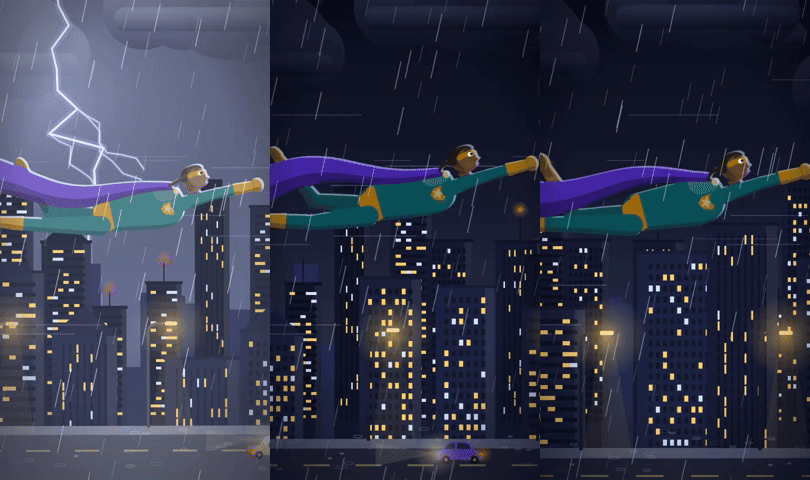
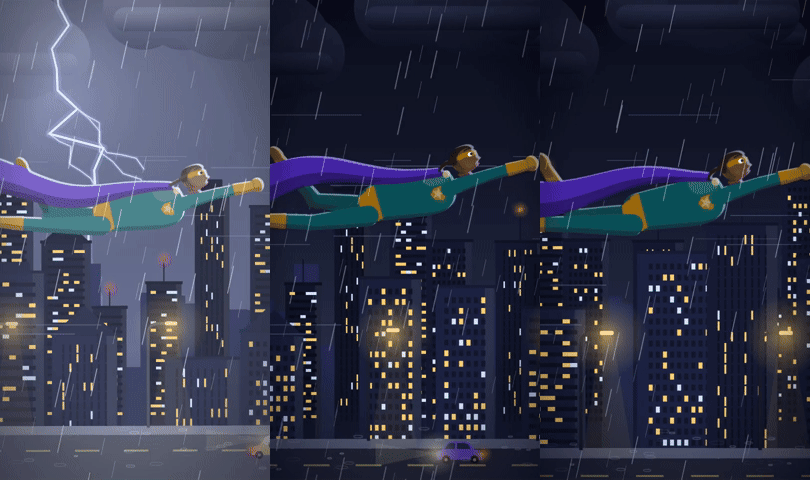
Animated scene engine: prompt-driven illustrated characters, settings, effects and camera (Remotion 'scene' composition + batch CLI)
Offline/no-key fallback for shots: heroes, people and 16 animals with idle + action motion, 14 parallax
settings, weather/energy effects, seeded and deterministic. npm run scene -- --jobs jobs.json

Claude-Session: https://claude.ai/code/session_016kKJU2FbEd5ikmWM3dBL89

diff --git a/render/src/scenes/settings/common.tsx b/render/src/scenes/settings/common.tsx
@@ -1,7 +1,7 @@
 /** Sky, sun/moon, stars, clouds and procedural ridgelines shared by the outdoor settings. */
 import React from "react";
 import type { Ctx } from "../ctx";
-import { mix, rgba } from "../lib/color";
+import { mix } from "../lib/color";
 import { mod, rnd, rr, TAU } from "../lib/math";
 import { Glow, Layer, tiles, useSid, visibleX } from "../lib/svg";
 import { Lightning } from "../effects/atmos";
@@ -139,13 +139,12 @@ export const Clouds: React.FC<{ ctx: Ctx; depth: number; y: number; spread?: num
   return (
     <Layer ctx={ctx} depth={depth}>
       <g transform={`translate(${drift},0)`}>
-        {tiles(ctx, depth, spacing, spacing * 2).map(({ i, x }) => {
+        {tiles(ctx, depth, spacing, spacing * 2).map(({ i }) => {
           const ii = i - Math.floor(drift / spacing);
           if (rnd(seed, k, "has", ii) > density) return null;
           const cx = ii * spacing + rr(seed, -0.3, 0.3, k, "x", ii) * spacing;
           const cy = y + rr(seed, -1, 1, k, "y", ii) * spread;
           const w = size * rr(seed, 0.6, 1.4, k, "w", ii);
-          void x;
           return (
             <g key={ii} transform={`translate(${cx},${cy})`}>
               <CloudShape w={w} seed={seed} k={`${k}${ii}`} fill={fc} shade={sc} opacity={opacity} />
@@ -204,7 +203,6 @@ export const Pine: React.FC<{ h: number; fill: string; light?: string; snow?: bo
 /** Ground band with a gradient from `top` to `bottom`. */
 export const Ground: React.FC<{ ctx: Ctx; y: number; top: string; bottom: string; depth?: number; curve?: number }> = ({ ctx, y, top, bottom, depth = 1, curve = 0 }) => {
   const id = useSid();
-  const [a, b] = visibleX(ctx, depth, 400);
   const { VH } = ctx;
   return (
     <Layer ctx={ctx} depth={depth}>
@@ -215,12 +213,9 @@ export const Ground: React.FC<{ ctx: Ctx; y: number; top: string; bottom: string
         </linearGradient>
       </defs>
       <path d={ridgePath(ctx, depth, (x) => y + hillNoise(x, ctx.seed, "g" + depth) * curve, VH + 600, 40)} fill={`url(#${id})`} />
-      {void a}
-      {void b}
     </Layer>
   );
 };
 
 /** Fraction t over a repeating period (for looping ambient motion). */
 export const cyc = (t: number, period: number, phase = 0): number => mod(t / period + phase, 1);
-export { rgba };

diff --git a/render/src/scenes/settings/nature.tsx b/render/src/scenes/settings/nature.tsx
@@ -3,7 +3,7 @@ import React from "react";
 import type { Ctx } from "../ctx";
 import { darken, lighten, mix } from "../lib/color";
 import { mod, rnd, rr, smoothPath, TAU, wobble, type Pt } from "../lib/math";
-import { Glow, Layer, tiles, useSid, visibleX } from "../lib/svg";
+import { Layer, tiles, useSid, visibleX } from "../lib/svg";
 import { Clouds, Ground, HorizonHaze, hillNoise, Orb, Pine, ridgeNoise, ridgePath, Sky, SkyFx, Stars } from "./common";
 
 const snowy = (ctx: Ctx) => ctx.spec.weather === "snow" || ctx.spec.setting === "ice";
@@ -390,7 +390,7 @@ export const IceFront: React.FC<{ ctx: Ctx }> = ({ ctx }) => (
 // ---------------------------------------------------------------------------
 
 export const SkyBack: React.FC<{ ctx: Ctx }> = ({ ctx }) => {
-  const { VH, pal } = ctx;
+  const { VH } = ctx;
   return (
     <>
       <Sky ctx={ctx} horizon={0.8} />
@@ -401,11 +401,9 @@ export const SkyBack: React.FC<{ ctx: Ctx }> = ({ ctx }) => {
       <FarBirds ctx={ctx} y={VH * 0.4} n={5} />
       <Clouds ctx={ctx} depth={0.18} y={VH * 0.62} size={650} density={0.8} k="b" spread={80} />
       <Clouds ctx={ctx} depth={0.4} y={VH * 0.9} size={900} density={0.95} k="c" spread={60} />
-      {void pal}
     </>
   );
 };
 export const SkyFront: React.FC<{ ctx: Ctx }> = ({ ctx }) => (
   <Clouds ctx={ctx} depth={1.5} y={ctx.VH * 1.06} size={1100} density={0.85} k="d" spread={60} speed={40} />
 );
-export { Glow };

diff --git a/render/src/scenes/settings/interior.tsx b/render/src/scenes/settings/interior.tsx
@@ -1,7 +1,7 @@
 /** Interiors: hospital corridor, science lab, power station with a sparking generator. */
 import React from "react";
 import type { Ctx } from "../ctx";
-import { darken, lighten, mix } from "../lib/color";
+import { darken, lighten } from "../lib/color";
 import { mod, pts, rnd, rr, TAU, type Pt } from "../lib/math";
 import { Glow, Layer, useSid } from "../lib/svg";
 import { Arc, Sparks } from "../effects/energy";
@@ -94,7 +94,6 @@ export const HospitalBack: React.FC<{ ctx: Ctx }> = ({ ctx }) => {
   const stripe = ctx.lit("#3fa7a0");
   const door = ctx.lit("#5aa6c9");
   const out: React.ReactNode[] = [];
-  const Z = [0, 1];
   // surfaces
   out.push(poly([P(-1, 1, 0), P(1, 1, 0), P(1, 1, 1), P(-1, 1, 1)], floor, 1, "floor"));
   out.push(poly([P(-1, -1, 0), P(1, -1, 0), P(1, -1, 1), P(-1, -1, 1)], ceil, 1, "ceil"));
@@ -145,7 +144,6 @@ export const HospitalBack: React.FC<{ ctx: Ctx }> = ({ ctx }) => {
   }
   // vp glow
   out.push(<Glow key="vpg" cx={VW / 2} cy={VH * 0.44} r={VW * 0.5} color="#ffffff" opacity={0.35} />);
-  void Z;
   return <Layer ctx={ctx} depth={0.7} scrollFactor={0}>{out}</Layer>;
 };
 
@@ -334,4 +332,3 @@ export const PowerFront: React.FC<{ ctx: Ctx }> = ({ ctx }) => {
     </Layer>
   );
 };
-export { TAU, mix };

diff --git a/render/src/scenes/characters/aquatic.tsx b/render/src/scenes/characters/aquatic.tsx
@@ -26,8 +26,12 @@ export const Whale: React.FC<CharProps> = (p) => {
   const top = L(orca ? "#16181f" : "#36557a"), belly = L(orca ? "#f4f6f8" : "#c9d8e4"), fin = L(orca ? "#16181f" : "#9fb4c8"), dark = darken(top, 0.3);
   const surface = ctx.spec.setting === "ocean";
   const f = 2.2;
-  const line = spine(820, 16, t, f, (u) => 6 + u * u * 46);
-  const w = (u: number) => (u < 0.14 ? 70 + Math.sqrt(u / 0.14) * 150 : u < 0.5 ? 220 - (u - 0.14) * 140 : Math.max(26, 170 - (u - 0.5) * 300));
+  // head drops slightly so the top line slopes down to a rounded snout
+  const line = spine(820, 16, t, f, (u) => 6 + u * u * 46).map(([x, y], i): Pt => {
+    const u = i / 16;
+    return [x, y + (u < 0.3 ? Math.pow(1 - u / 0.3, 2) * 46 : 0)];
+  });
+  const w = (u: number) => (u < 0.16 ? 60 + Math.sqrt(u / 0.16) * 160 : u < 0.5 ? 220 - (u - 0.16) * 140 : Math.max(26, 172 - (u - 0.5) * 300));
   const outline = ribbon(line, w);
   const tail = line[line.length - 1]!, pre = line[line.length - 2]!;
   const tailAng = Math.atan2(tail[1] - pre[1], tail[0] - pre[0]) * (180 / Math.PI) + 180;

diff --git a/render/src/scenes/characters/index.tsx b/render/src/scenes/characters/index.tsx
@@ -26,10 +26,12 @@ export type CharDef = {
 
 /** Standard ground placement: centred, extra copies further back, smaller and to the sides. */
 export const groundPlace = (s: number, spread = 0.3, xBias = 0.5) => (ctx: Ctx, idx: number, n: number): Placement => {
-  const k = Math.pow(0.74, idx);
+  // groups: everyone a bit smaller, copies further back; offsets limited so they stay in frame
+  const k = Math.pow(0.74, idx) * (n > 1 ? 0.84 : 1);
   const side = idx === 0 ? 0 : idx % 2 === 1 ? -1 : 1;
+  const off = Math.min(ctx.VW * spread, 330 * s);
   return {
-    x: ctx.VW * xBias + side * ctx.VW * spread + (idx === 0 && n > 1 ? ctx.VW * 0.06 : 0),
+    x: ctx.VW * xBias + side * off + (n > 1 ? Math.min(ctx.VW * 0.1, 120 * s) : 0),
     y: ctx.groundY - idx * 60,
     s: s * k,
     z: -idx,

diff --git a/render/src/scenes/settings/water.tsx b/render/src/scenes/settings/water.tsx
@@ -266,4 +266,3 @@ export const SpaceBack: React.FC<{ ctx: Ctx }> = ({ ctx }) => {
   );
 };
 
-export { HorizonHaze };

diff --git a/render/src/scenes/README.md b/render/src/scenes/README.md
@@ -1,0 +1,199 @@
+# Procedural scene engine (`scene` composition)
+
+When no AI video provider (Kling / Veo) is available, every shot is rendered as
+real 2-D animation: articulated SVG characters with idle + action motion,
+parallax settings with ambient motion, particle/light effects and a moving
+camera. Everything is deterministic from `(prompt, seed)` (Remotion
+`random()` + an FNV hash in the parser, never `Math.random`).
+
+```bash
+npm run scene:check                              # parse ~20 sample prompts, assert the expected picks
+npm run scene -- --jobs jobs.json                # render a batch (one bundle, one browser)
+npm run scene -- --jobs jobs.json --concurrency 4 --crf 20
+npm run studio                                   # preview the `scene` composition interactively
+```
+
+`jobs.json`:
+
+```json
+[{ "prompt": "A lion roars on the savanna at sunset", "seed": 4,
+   "durationInSeconds": 5, "width": 540, "height": 960, "out": "out/lion.mp4" }]
+```
+
+`out` is resolved relative to the jobs file. One JSON line per finished job is
+printed to stdout (`{"out":"/abs/lion.mp4","ok":true,"ms":9400,"frames":150}`,
+or `"ok":false,"error":…`); logs go to stderr; exit code 1 if any job failed.
+The CLI uses `build/bundle` when it exists **and** contains `scene`, otherwise a
+content-hashed bundle in `node_modules/.cache/clipforge-scene-bundle/<hash>`
+(re-bundled only when `src/` changes). `--bundle <dir>` / `REMOTION_BUNDLE`
+override it. `REMOTION_BROWSER_EXECUTABLE`, `REMOTION_GL`,
+`REMOTION_CONCURRENCY` and `RENDER_CRF` are honoured like the worker. Output is
+h264, yuv420p, no audio track.
+
+Composition props (zod-validated, `src/scenes/schema.ts`):
+`{ prompt: string; seed: number; durationInSeconds: number; width: number; height: number }`,
+30 fps; `calculateMetadata` sets duration and (even-rounded) size from the props.
+
+## Pipeline
+
+```
+prompt ──parse.ts──▶ SceneSpec {character, role, gender, count, setting, time, weather, action, effects[], camera, color}
+                          │
+Scene.tsx: palette (time × weather × setting) → camera (move + impact shakes)
+           setting.Back (sky → far → mid → near parallax layers)
+           back effects (rain/snow/fireflies/speed lines)
+           characters (placed per registry, rim-light filter, contact shadow, aura)
+           setting.Front (foreground grass / waves / kelp / generator)
+           front effects (rain, snow, dust, bubbles, god rays, lens flare) → vignette + lightning flash
+```
+
+The virtual canvas is always 1600 units tall; width follows the aspect ratio, so
+the same scene works for 9:16, 1:1 and 16:9 (wider frames simply show more
+scenery). Moving subjects stay in frame while the world scrolls past them at the
+matching speed (legs use 2-bone IK with planted feet, so they don't skate); in
+fixed rooms (hospital, lab, power station) the subject walks across instead.
+
+## Prompt keywords
+
+Matching is case-insensitive on word boundaries with synonyms. The **earliest**
+subject word wins; specific verbs outrank generic movement words. Anything not
+pinned down falls back to per-character defaults, then to the seed.
+
+| Kind | Id | Words (not exhaustive) |
+| --- | --- | --- |
+| character | `hero` | superhero, hero, caped, cape, vigilante, champion |
+| | `heroine` | heroine, superheroine, supergirl, super woman — or `hero` + she/her/woman |
+| | `person` | nurse · doctor/physician/surgeon · scientist/researcher/engineer · kid/child/boy/girl · worker/technician/electrician · person/man/woman/teacher/… (role picks the outfit) |
+| | animals | lion/lioness · fox · owl · eagle/hawk/falcon/bird/crow · wolf/wolves/husky · cat/kitten · dog/puppy · rabbit/bunny/hare · bear/grizzly · elephant · whale/humpback/orca · fish/school of/shoal · dolphin · penguin · butterfly/moth · deer/stag/fawn/elk/gazelle |
+| setting | `city` | city, street, downtown, skyline, town, buildings, traffic |
+| | `rooftops` | roof, rooftop(s) (wins over `city`) |
+| | `forest` | forest, woods, trees, jungle, branch, pines |
+| | `savanna` | savanna(h), grassland, plains, prairie, africa, desert, safari |
+| | `meadow` | meadow, field, park, garden, hills, flowers, farm |
+| | `mountains` | mountain, peak, cliff, alps, summit, valley |
+| | `ice` | ice, icy, arctic, antarctic, glacier, tundra, polar |
+| | `ocean` | ocean, sea, waves, beach, surf, coast, water |
+| | `underwater` | underwater, under the sea, reef, coral, deep sea, deep blue, seabed |
+| | `sky` | sky, clouds, air |
+| | `space` | space, galaxy, nebula, planet, orbit, cosmos, asteroid |
+| | `hospital` | hospital, ward, clinic, emergency room, ICU, patients |
+| | `lab` | lab, laboratory, experiment, research |
+| | `power` | generator, power station/plant/grid, substation, turbine, reactor, factory |
+| time | `sunrise` / `sunset` / `night` / `day` | dawn, morning · dusk, evening, twilight, golden hour · night, moon, dark, stars · day, noon, sunny |
+| weather | `storm` / `snow` / `rain` / `fog` | thunderstorm, lightning, thunder · snow(y), blizzard, winter · rain, downpour · fog, mist, haze |
+| action | `fly` `hover` `land` `zap` `walk` `run` `jump` `swim` `roar` `howl` `graze` `gesture` `flap` `spout` `idle` | flies/soars/glides · hovers/floats · lands/descends · sparks/electric/presses/touches · walks/waddles/strolls · runs/trots/gallops · jumps/leaps/hops/breaches · swims/dives · roars/growls · howls · grazes/eats · waves/explains/talks · flaps · spouts/surfaces · sits/perches/blinks/watches |
+| count | 1–3 | two/pair · three/several/herd/pack/flock/pod · plural subject ("dolphins") → 3 (capped at 2 for heroes, people, elephants, whales, bears) |
+| colour | hint | red, orange, gold, green, blue, purple, white, black, gray, brown, arctic/snowy (suit or fur colour where it makes sense) |
+
+Consistency rules: aquatic animals always get water (whale/fish default to
+underwater unless "surface/spout/waves"; dolphins that jump get the ocean
+surface), land animals are never put underwater, storms default to night,
+underwater / indoor / space scenes ignore weather. With no recognised subject
+the seed picks a curated combo (or a character that fits the named setting), so
+"Why sleep matters for your brain" still yields a proper animated scene.
+
+## Characters
+
+Every character breathes/blinks (or has an equivalent idle) and gets a rim-light
++ core-shadow filter tuned to the scene light. Colours vary with the seed (and
+colour words).
+
+| Character | Motion |
+| --- | --- |
+| hero / heroine (original design: shield + star emblem, optional domino mask) | **hover** (bob, slow ascent, flowing cape, glowing fists), **fly** (profile, fist forward, travelling-wave cape, kicking legs, speed lines, scrolling world), **land** (descends, knee-bend impact with camera shake, recovers), **zap** (arms rise, arcs between/under the hands, spark showers); 7 suit palettes × 6 skin tones × 6 hair colours |
+| person (nurse / doctor / scientist / kid / worker / civilian, gender from pronouns) | **walk** (IK gait, arm swing), **gesture** (talking hand, nodding, mouth), **zap** (arms pressed forward, arcs crawl from hands up to the shoulders, hair stands on end, body shake), idle |
+| lion | mane lobes ripple; **roar** (anticipation dip, head up, jaw open with fangs, mane flare, sound rings, camera shake), walk, tail with tuft |
+| fox | **trot** (diagonal gait, bushy tail with white tip, dark socks), walk, idle |
+| wolf | **howl** (body tilts, head to the sky, sound rings), trot, idle |
+| dog | **run** (trot, floppy ears, tongue out, wagging tail, collar), idle wag |
+| cat | idle (tail swish, slit-pupil blink, ear twitch, head tilt), walk; tabby stripes |
+| owl | perched on a branch: slow blink with eyelids, **head turns** left/right, ear tufts, periodic **wing flap** bursts |
+| eagle | flapping bursts blended into swept-back glides, bob, head look |
+| penguin | **waddle** (side-to-side rock, stepping feet, flippers), hop, idle |
+| rabbit | **hop** cycle (crouch → stretch → land), ear swing, nose twitch |
+| bear | slow heavy **walk**, optional roar |
+| elephant | ear flap, trunk sway, tail, slow **walk** |
+| deer (stag or spotted fawn) | **graze** (neck down, chewing, looks up), **leap** (airborne arcs with extended legs), walk, ear/tail flicks |
+| whale (humpback, orca variant) | **swim** (body wave, fluke beat, pectoral fins), **spout** at the surface |
+| fish | a school of 26 fish at several depths, wagging tails |
+| dolphin | **jump** arcs out of the waves with exit/entry splashes, or swim underwater |
+| butterfly | wing flutter, wandering path (monarch / morpho / swallowtail / pink palettes) |
+
+## Settings (parallax layers + ambient motion)
+
+| Setting | Layers & ambient motion |
+| --- | --- |
+| city | gradient sky, stars/moon or sun, far skyline, mid + near buildings with twinkling windows and blinking antenna lights, street with lamps, cycling traffic lights, passing cars with headlights |
+| rooftops | city behind + foreground roofs with water towers, spinning AC fans, blinking antennas |
+| forest | hills, three depths of swaying pines / leafy trees, grass, foreground bushes; snow caps in snow; fireflies at night |
+| savanna | mesas, acacias, heat shimmer lines, swaying golden grass, distant bird flock |
+| meadow | rolling hills, trees, grass with swaying flowers |
+| mountains | four snow-capped ranges with shaded faces, drifting mist, pine ridge |
+| ice | ice cliffs, dark sea with bobbing icebergs and glints, cracked ice floor with sparkles, snow drifts |
+| ocean | horizon haze, sun glitter path, five wave bands with foam at different depths/speeds |
+| underwater | surface ripples, god rays, far rock + kelp silhouettes, coral, anemones, swaying kelp, caustics, bubbles |
+| sky | cloud layers at several depths, flock of birds |
+| space | nebulae, twinkling stars, ringed planet with drifting bands, moon, tumbling asteroids, shooting stars, lunar ground |
+| hospital | one-point-perspective corridor, flickering ceiling panel, doors, exit sign, ECG monitor, swaying IV bag with drips |
+| lab | monitors (ECG / bars / rotating DNA), shelves, bubbling glowing flasks, hanging lamps |
+| power | pipes, jittering gauges, rotating amber beacons, hazard stripes, big generator with glowing coil, blinking panel, arcing terminals + sparks |
+
+## Effects
+
+`effects/atmos.tsx`: rain (two depths + splashes), snow (two depths), fireflies,
+dust motes, god rays, bubbles, lens flare, lightning (branching bolts + scene
+flash that also brightens sky, clouds and characters' rim light), speed lines,
+energy aura. `effects/energy.tsx`: crackling arcs (re-rolled every 2 frames,
+with branches), spark showers with gravity, pulsing energy balls.
+
+Camera (`camera.ts`): `push`, `pull`, `pan` or `drift` chosen per scene from the
+seed (movement actions prefer drift/pan), plus a handheld float and decaying
+shakes on lightning strikes, landings and roars.
+
+## Contact sheets
+
+Rendered at 540×960, frames at 12 % / 50 % / 88 % of each 5 s clip.
+
+| Prompt | Sheet |
+| --- | --- |
+| A caped superhero flies over a city at night during a thunderstorm, lightning flashing | ![](../../docs/scenes/01_hero_storm.png) |
+| A nurse presses her hands on a generator and electric sparks crawl up her arms | ![](../../docs/scenes/02_nurse_generator.png) |
+| A glowing hero hovers above rooftops at sunrise | ![](../../docs/scenes/03_hero_rooftops.png) |
+| A lion roars on the savanna at sunset | ![](../../docs/scenes/04_lion.png) |
+| A red fox trots through a snowy forest | ![](../../docs/scenes/05_fox.png) |
+| An owl blinks on a branch under the moon with fireflies | ![](../../docs/scenes/06_owl.png) |
+| A whale swims through deep blue ocean with light rays | ![](../../docs/scenes/07_whale.png) |
+| An eagle soars over mountains | ![](../../docs/scenes/08_eagle.png) |
+| A penguin waddles on the ice | ![](../../docs/scenes/09_penguin.png) |
+| Three dolphins jump out of the waves | ![](../../docs/scenes/10_dolphins.png) |
+
+## Performance
+
+In the 4-core sandbox (headless shell, software GL) a 5 s 540×960 clip renders
+in ~9–15 s (storm/rooftop/underwater scenes are the heaviest), a 5 s
+1080×1920 clip in ~30 s. Bundling adds ~7 s once per source change.
+
+## Known limitations
+
+- Characters are drawn from one side (profile, or front for hover/land/zap and
+  the owl); there is no turning around, and all walkers face right.
+- One subject species per shot (plus copies); there are no interactions between
+  different characters, and no props beyond the generator and the owl's branch.
+- Proportions are stylised; the whale and dolphin bodies are fairly simple, and
+  the flying hero's face is small at 540 px wide.
+- Re-rendering the same job gives visually identical frames (PSNR ≈ 66 dB);
+  JPEG/x264 threading makes the bytes differ slightly.
+
+## Files
+
+| Path | What |
+| --- | --- |
+| `index.tsx` | Registers the `scene` composition (`calculateMetadata`) |
+| `schema.ts` | zod props schema, fps |
+| `parse.ts`, `check.ts` | prompt → `SceneSpec`; `npm run scene:check` |
+| `Scene.tsx` | composition: context, placement, layer order, grade |
+| `palette.ts`, `camera.ts`, `ctx.ts` | lighting palettes, camera + timed events, per-frame context |
+| `lib/` | seeded maths/noise/easing, colour maths, SVG helpers (parallax `Layer`, `tiles`, rim-light filter, glows), IK/gait rig |
+| `settings/` | `city.tsx`, `nature.tsx` (forest, savanna, meadow, mountains, ice, sky), `water.tsx` (ocean, underwater, space), `interior.tsx` (hospital, lab, power) |
+| `characters/` | `hero.tsx`, `person.tsx`, `felines.tsx`, `canines.tsx`, `big.tsx`, `birds.tsx`, `small.tsx`, `aquatic.tsx`, shared `quad.tsx`, registry `index.tsx` |
+| `effects/` | `atmos.tsx`, `energy.tsx` |

diff --git a/render/README.md b/render/README.md
@@ -26,8 +26,10 @@ render_jobs (status=queued, spec=RenderSpec)
 | `src/worker.ts` | Postgres job loop. |
 | `src/cli.ts` | Render a spec file without the DB. |
 | `src/lib/*` | Asset store (local/Supabase), loopback file server, render + loudnorm, logging. |
+| `src/scenes/*` | Procedural animation engine: the `scene` composition turns a text prompt into an animated illustrated shot (characters, parallax settings, effects, camera). See [`src/scenes/README.md`](src/scenes/README.md). |
+| `src/scene-cli.ts` | Batch renderer for `scene` clips (`npm run scene -- --jobs jobs.json`). |
 
-Input props for every composition are `{ spec: RenderSpec, aspect: "9:16" | "1:1" | "16:9" }`;
+Input props for every template composition are `{ spec: RenderSpec, aspect: "9:16" | "1:1" | "16:9" }`;
 the worker rewrites every asset path in `spec` to a URL before rendering. An
 unknown `spec.template` falls back to `default`.
 
@@ -39,6 +41,8 @@ npm run studio                                  # preview templates with sample 
 npm run render:local -- spec.json out/          # render without the DB → out/9x16.mp4 …, out/result.json
 DATABASE_URL=postgres://… ASSET_ROOT=/data npm run worker
 npm run typecheck
+npm run scene -- --jobs jobs.json               # animated scene clips from prompts (see src/scenes/README.md)
+npm run scene:check                             # print the parsed scene for sample prompts
 ```
 
 `npm run build` pre-bundles the Remotion project into `build/bundle`; the worker
